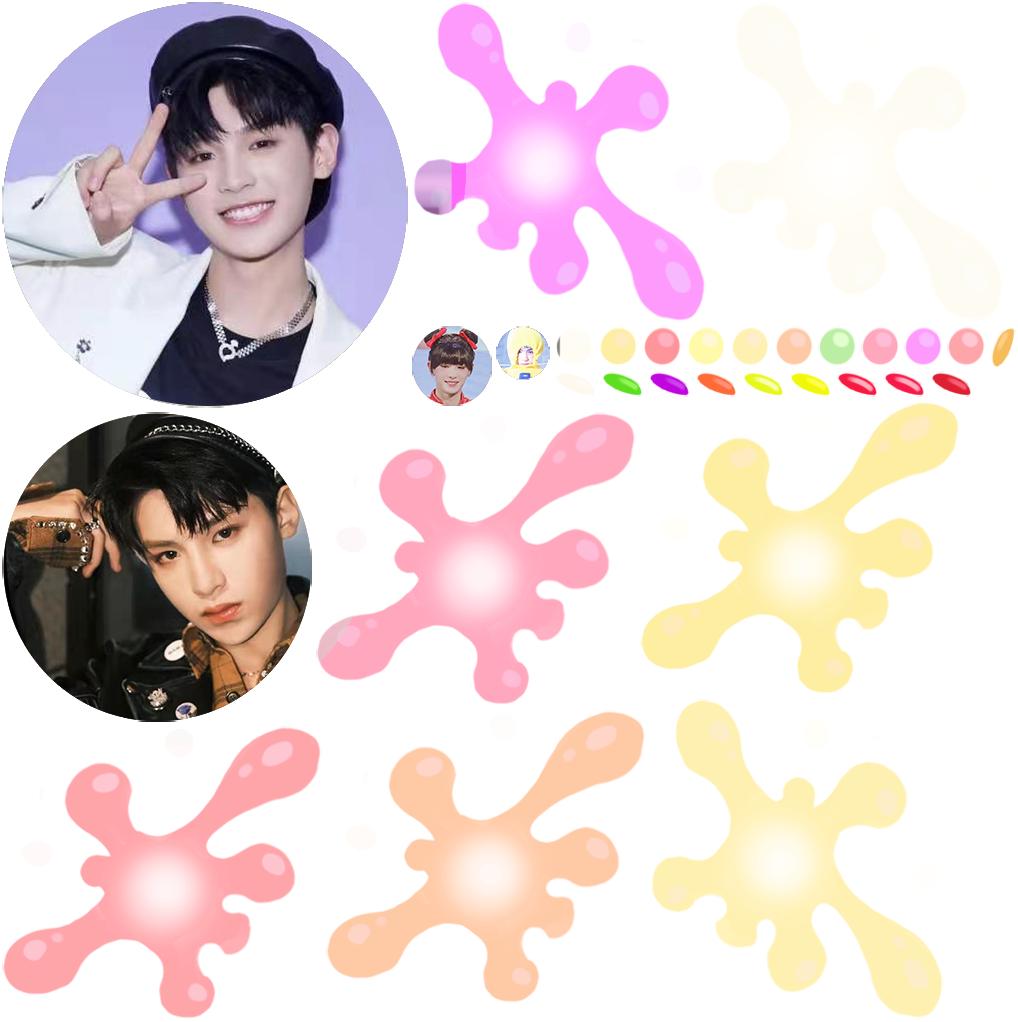
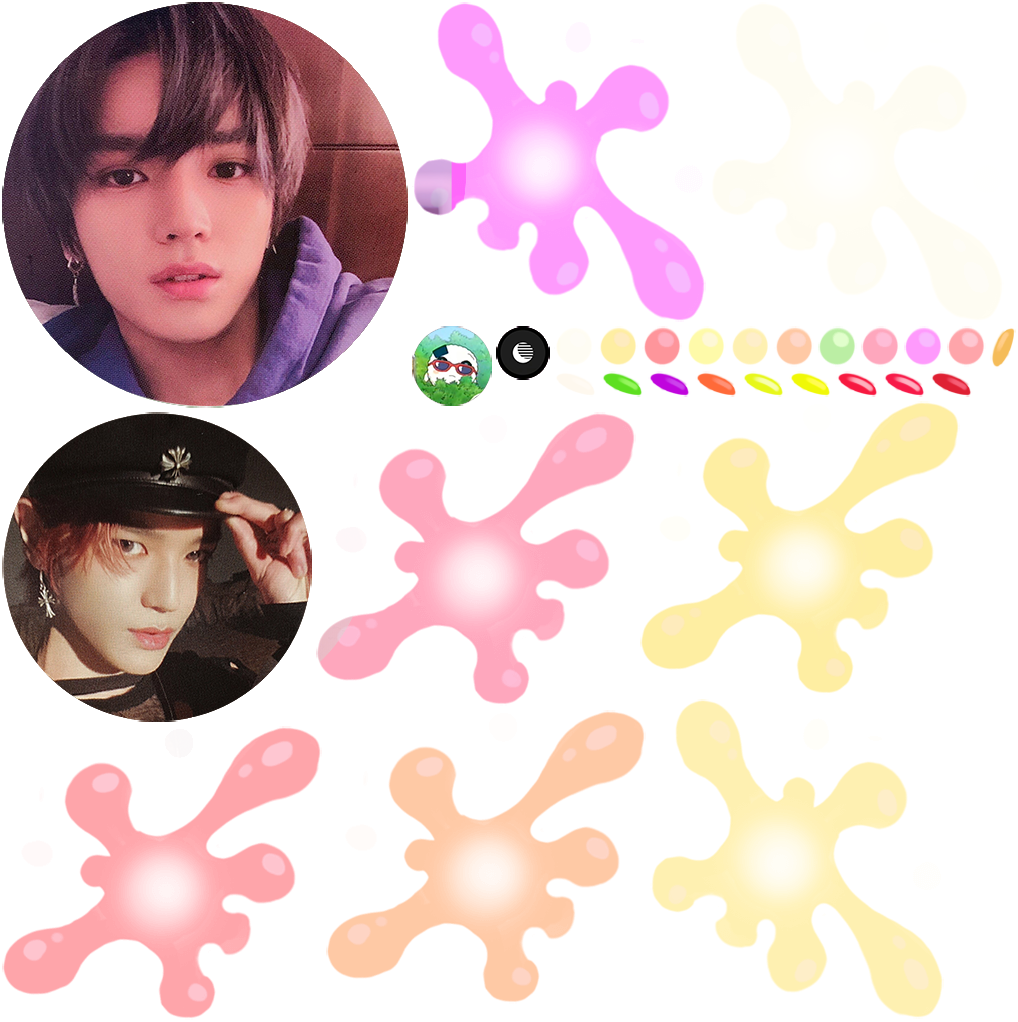
nitial commit

Changed region(s): [[0.0, 0.0, 0.4263, 0.728], [0.3959, 0.3033, 0.5481, 0.3943]]

diff --git a/index.html b/index.html
@@ -4,7 +4,7 @@
 <head>
     <meta charset="utf-8">
 
-    <title>合成黄明昊</title>
+    <title>合成栗小绒</title>
 
     <!--http://www.html5rocks.com/en/mobile/mobifying/-->
     <meta name="viewport" content="width=device-width,user-scalable=no,initial-scale=1, minimum-scale=1,maximum-scale=1" />
@@ -109,7 +109,7 @@
             //        console.log("window.navigator.language",window.navigator.language);
 
             if (window.navigator.language == "zh-CN" || window.navigator.language == "zh-cn") {
-                document.title = "合成黄明昊";
+                document.title = "合成栗小绒";
             } 
 
 
